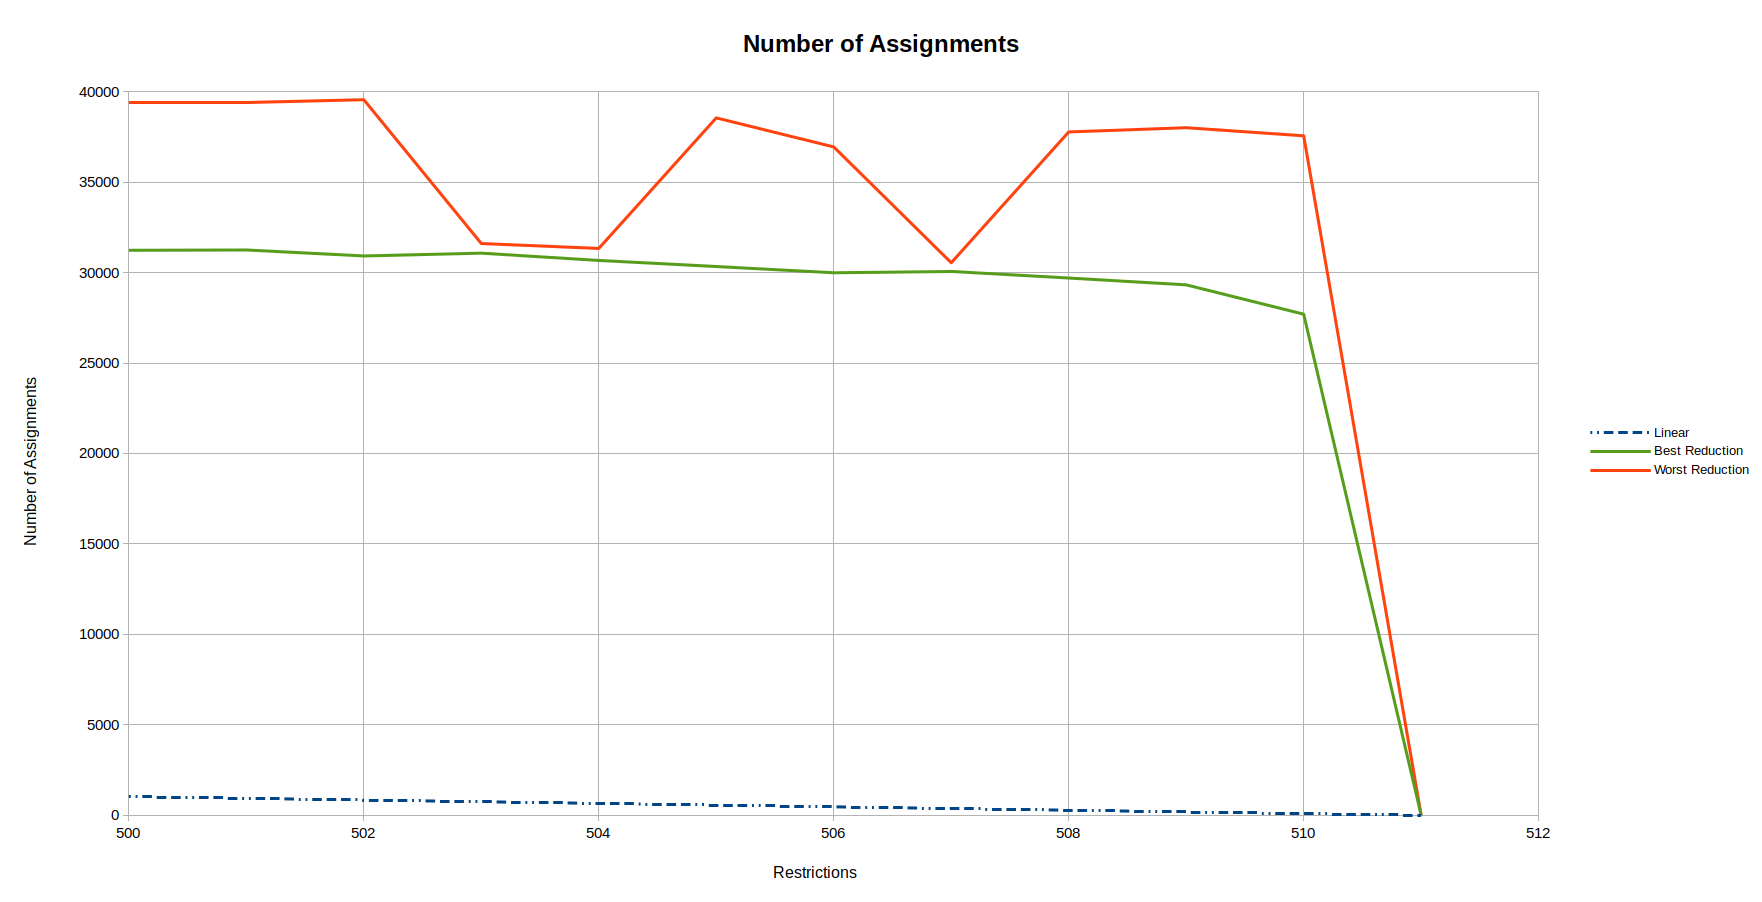
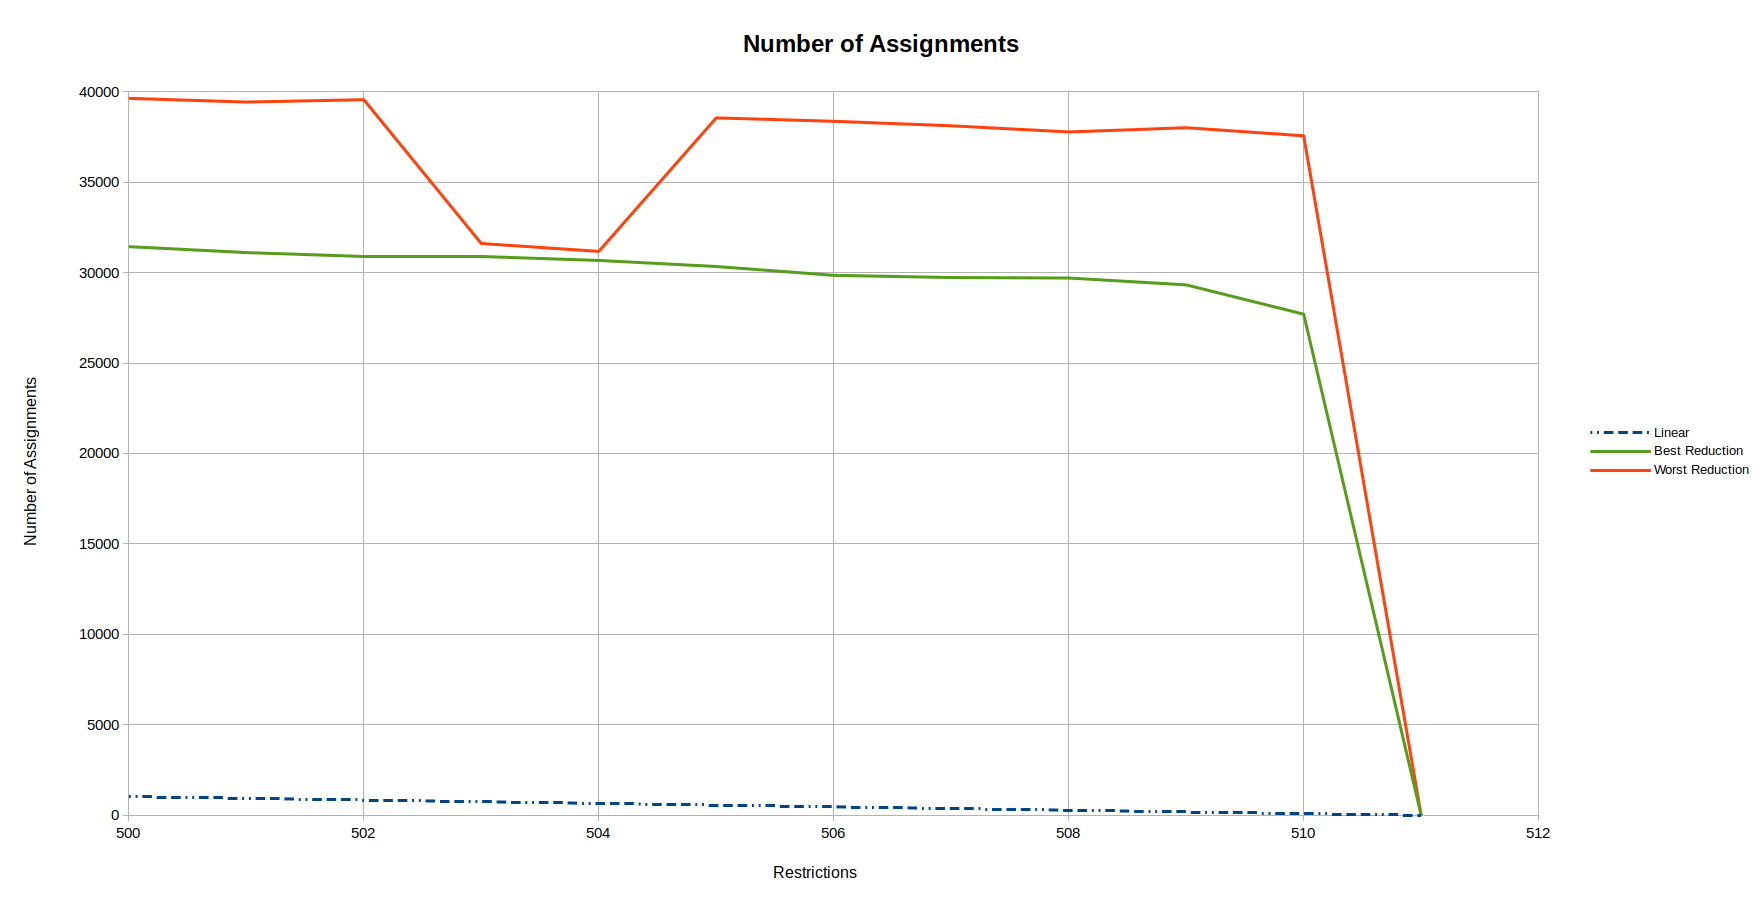
Updated the results

diff --git a/results/Overview.md b/results/Overview.md
@@ -140,16 +140,16 @@ Results better than the exponential reduction are marked in bold.
 |:------------:|:----------------:|:--------------:|:---------------:|
 | 0 | 2.618×10^327 | 2.618×10^327 | 2.618×10^327 |
 | 1 | 5.986×10^326 | 2.618×10^327 | 2.618×10^327 |
-| 65 | 5.886×10^285 | 1.299×10^336 | 1.299×10^336 |
-| 501 | 2.548×10^6 | 2.573×10^298 | 2.560×10^369 |
-| 502 | 5.820×10^5 | 2.159×10^295 | 4.953×10^369 |
+| 500 | 1.117×10^7 | 5.235×10^298 | 2.882×10^369 |
+| 501 | 2.548×10^6 | 7.598×10^295 | 1.110×10^369 |
+| 502 | 5.820×10^5 | 5.434×10^294 | 4.953×10^369 |
 | 503 | 1.293×10^5 | 1.812×10^295 | 7.816×10^302 |
-| 504 | 2.587×10^4 | 1.228×10^294 | 6.681×10^302 |
-| 505 | 6.058×10^3 | 9.897×10^293 | 1.353×10^367 |
-| 506 | 1.419×10^3 | 3.483×10^295 | 1.836×10^296 |
-| 507 | 3.323×10^2 | 1.759×10^294 | 1.169×10^296 |
-| 508 | 7.783×10^1 | 2.702×10^292 | 9.300×10^362 |
-| 509 | 1.823×10^1 | 2.939×10^288 | 2.423×10^368 |
+| 504 | 2.587×10^4 | 1.228×10^294 | 7.100×10^302 |
+| 505 | 6.058×10^3 | 3.171×10^293 | 1.353×10^367 |
+| 506 | 1.419×10^3 | 2.017×10^290 | 2.993×10^365 |
+| 507 | 3.323×10^2 | 1.795×10^290 | 8.687×10^366 |
+| 508 | 7.783×10^1 | 9.729×10^290 | 7.139×10^363 |
+| 509 | 1.823×10^1 | 5.070×10^287 | 1.887×10^368 |
 | 510 | 4.270×10^0 | 3.900×10^272 | 3.300×10^364 |
 | 511 | 1.000×10^0 | 6.700×10^1 | 9.500×10^1 |
 
@@ -184,14 +184,14 @@ Results better than the exponential reduction are marked in bold.
 |:------------:|:----------------:|:--------------:|:---------------:|
 | 0 | 2.611×10^405 | 2.611×10^405 | 2.611×10^405 |
 | 1 | 4.202×10^404 | 2.611×10^405 | 2.611×10^405 |
-| 65 | 7.034×10^353 | 7.898×10^403 | 7.898×10^403 |
-| 501 | 8.586×10^7 | 2.732×10^300 | 6.550×10^371 |
-| 502 | 1.382×10^7 | 1.053×10^299 | 9.656×10^371 |
+| 500 | 5.335×10^8 | 9.274×10^300 | 1.892×10^372 |
+| 501 | 8.586×10^7 | 3.774×10^299 | 6.550×10^371 |
+| 502 | 1.382×10^7 | 3.989×10^298 | 9.656×10^371 |
 | 503 | 2.223×10^6 | 8.191×10^298 | 5.002×10^304 |
-| 504 | 3.578×10^5 | 2.341×10^297 | 2.463×10^306 |
+| 504 | 3.578×10^5 | 2.341×10^297 | 2.568×10^306 |
 | 505 | 5.758×10^4 | 4.597×10^296 | 3.063×10^369 |
-| 506 | 9.266×10^3 | 2.153×10^295 | 4.573×10^349 |
-| 507 | 1.491×10^3 | 1.631×10^295 | 1.001×10^297 |
+| 506 | 9.266×10^3 | 1.187×10^293 | 3.857×10^369 |
+| 507 | 1.491×10^3 | 4.901×10^293 | 6.833×10^368 |
 | 508 | 2.400×10^2 | 1.456×10^293 | 2.243×10^365 |
 | 509 | 3.862×10^1 | 6.969×10^289 | 1.167×10^369 |
 | 510 | 6.214×10^0 | 8.145×10^272 | 6.864×10^364 |
@@ -228,16 +228,16 @@ Results better than the linear reduction are marked in bold.
 |:------------:|:----------------:|:--------------:|:---------------:|
 | 0 | 25,956,122 | 25,956,122 | 25,956,122 |
 | 1 | 25,905,327 | 25,950,718 | 25,950,718 |
-| 65 | 22,654,463 | 25,500,762 | 25,500,762 |
-| 501 | 507,948 | 11,147,863 | 21,239,184 |
-| 502 | 457,153 | 10,950,245 | 21,224,790 |
-| 503 | 406,358 | 10,956,999 | 11,565,584 |
-| 504 | 355,563 | 10,902,150 | 11,824,083 |
-| 505 | 304,769 | 10,894,435 | 21,032,498 |
-| 506 | 253,974 | 10,695,662 | 18,273,276 |
-| 507 | 203,179 | 10,857,293 | 10,905,494 |
-| 508 | 152,384 | 10,807,632 | 20,663,448 |
-| 509 | 101,590 | 10,514,066 | 21,102,747 |
+| 500 | 558,742 | 11,181,872 | 21,331,334 |
+| 501 | 507,948 | 10,987,163 | 21,239,184 |
+| 502 | 457,153 | 10,931,983 | 21,224,790 |
+| 503 | 406,358 | 10,943,005 | 11,565,584 |
+| 504 | 355,563 | 10,891,002 | 11,719,171 |
+| 505 | 304,769 | 10,862,101 | 21,032,498 |
+| 506 | 253,974 | 10,433,412 | 21,153,849 |
+| 507 | 203,179 | 10,581,338 | 20,984,827 |
+| 508 | 152,384 | 10,683,878 | 20,663,448 |
+| 509 | 101,590 | 10,452,429 | 21,102,747 |
 | 510 | 50,795 | 9,126,531 | 20,564,230 |
 | 511 | 0 | 0 | 0 |
 
@@ -271,14 +271,14 @@ Results better than the linear reduction are marked in bold.
 |:------------:|:----------------:|:--------------:|:---------------:|
 | 0 | 47,947 | 47,947 | 47,947 |
 | 1 | 47,853 | 47,947 | 47,947 |
-| 65 | 41,848 | **24,116** | 24,116 |
-| 501 | 938 | 31,248 | 39,424 |
-| 502 | 844 | 30,918 | 39,554 |
-| 503 | 751 | 31,072 | 31,606 |
-| 504 | 657 | 30,670 | 31,333 |
+| 500 | 1,032 | 31,431 | 39,629 |
+| 501 | 938 | 31,103 | 39,424 |
+| 502 | 844 | 30,914 | 39,554 |
+| 503 | 751 | 30,881 | 31,606 |
+| 504 | 657 | 30,670 | 31,171 |
 | 505 | 563 | 30,333 | 38,550 |
-| 506 | 469 | 29,988 | 36,943 |
-| 507 | 375 | 30,061 | 30,543 |
+| 506 | 469 | 29,846 | 38,362 |
+| 507 | 375 | 29,725 | 38,112 |
 | 508 | 281 | 29,698 | 37,772 |
 | 509 | 188 | 29,319 | 38,006 |
 | 510 | 94 | 27,700 | 37,558 |
